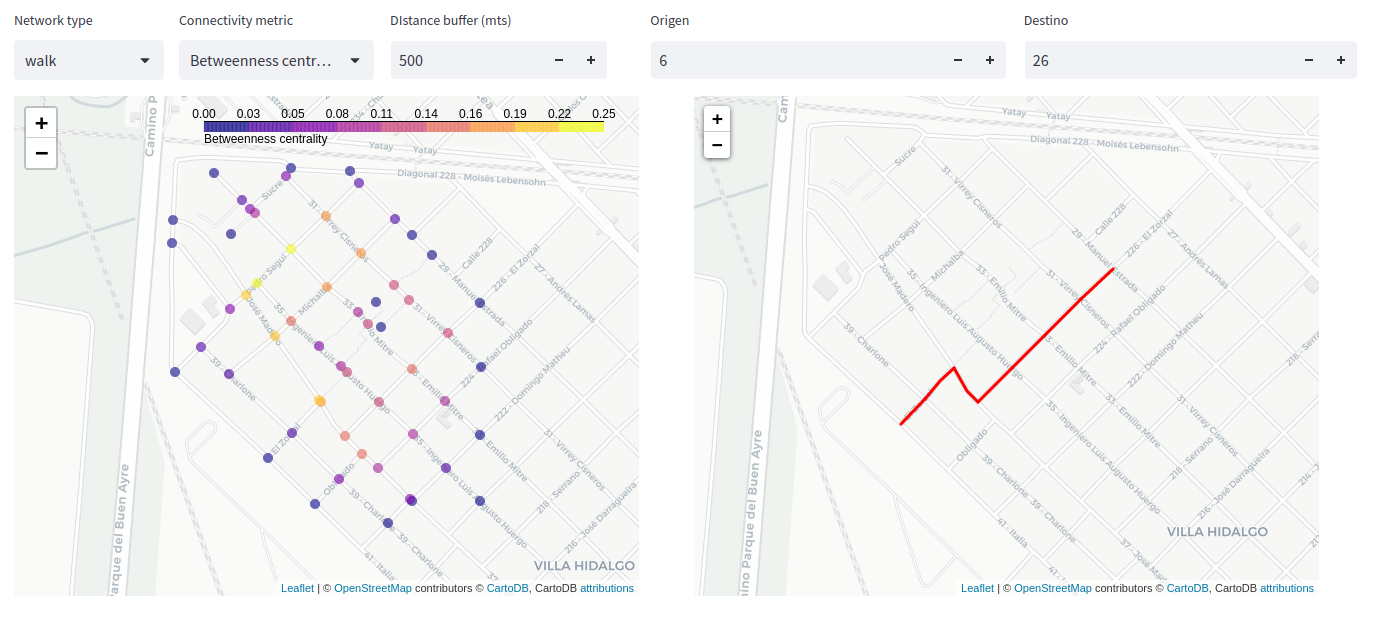
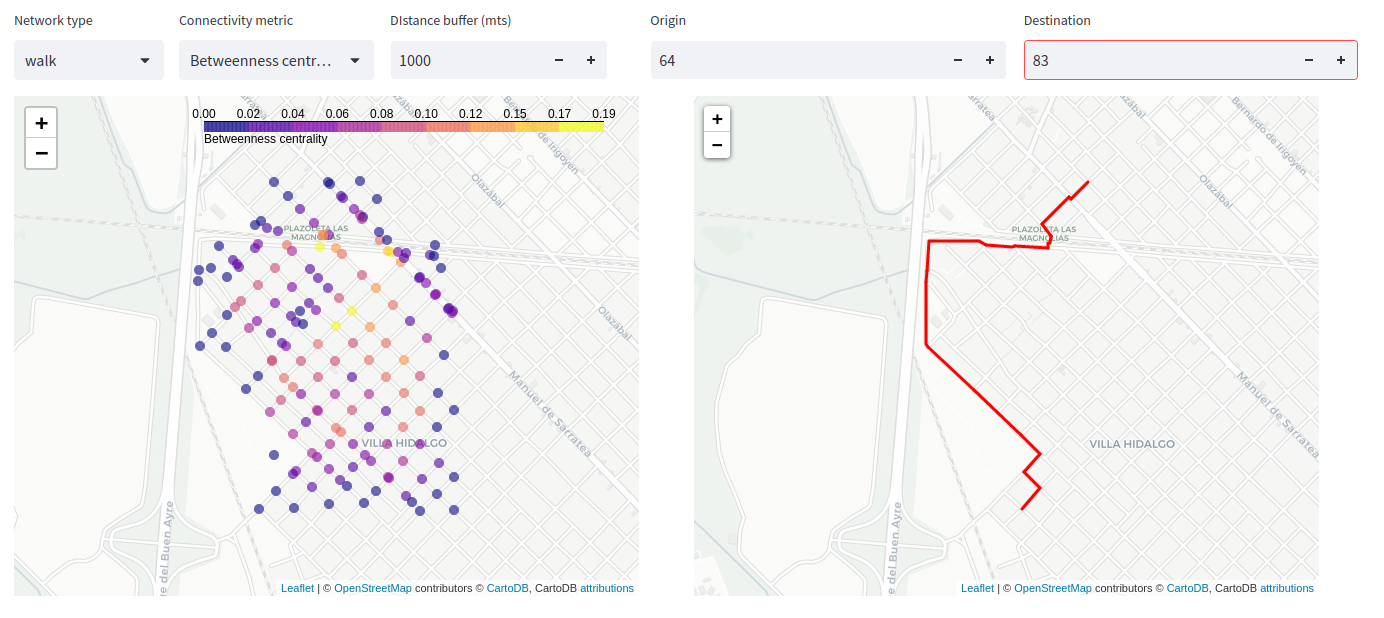
readme changes

diff --git a/urban_connector/dashboard.py b/urban_connector/dashboard.py
@@ -130,8 +130,8 @@ elif menu_list == "Connectivity":
     first_node = list(ordinal_idx_to_osmnidx.keys())[0]
     last_node = list(ordinal_idx_to_osmnidx.keys())[-1]
 
-    origin = col4.number_input('Origen', value=first_node)
-    destin = col5.number_input('Destino', value=last_node)
+    origin = col4.number_input('Origin', value=first_node)
+    destin = col5.number_input('Destination', value=last_node)
 
     route = nx.shortest_path(G, ordinal_idx_to_osmnidx[origin], ordinal_idx_to_osmnidx[destin])
 
@@ -162,7 +162,7 @@ elif menu_list == "Accessibility":
 
     col1, col2, col3 = st.columns(3)
     default_place= 'Villa Hidalgo, José León Suárez, Partido de General San Martín, Buenos Aires'
-    place = col1.text_input(label='Ingresar nombre del sitio', value=default_place)
+    place = col1.text_input(label='Place your network', value=default_place)
 
     network_types = ["all_private", "all", "bike", "drive", "drive_service", "walk"]
     selected_network_type = col2.selectbox('Network type', network_types, index=5)

diff --git a/README.md b/README.md
@@ -3,10 +3,12 @@
 Tools for street networks modeling 
 > This repository compiles a set of strategies to build transit networks and perform connectivity assesments.  
 
-Connectivity patterns
+**Connectivity patterns**
 
+Pick a reference point, decide the buffer distance from it and estimate connectivity metrics for different network types
 ![mobility](urban_connector/img/mobility.png)
 
-Accessibility patterns
+**Accessibility patterns**
 
-![accessibility](urban_connector/img/accesibility.png)
+Enter the place name of your network, click a reference node and calculate travel time isochrones for different transit networks
+![accessibility](urban_connector/img/accessibility.png)
